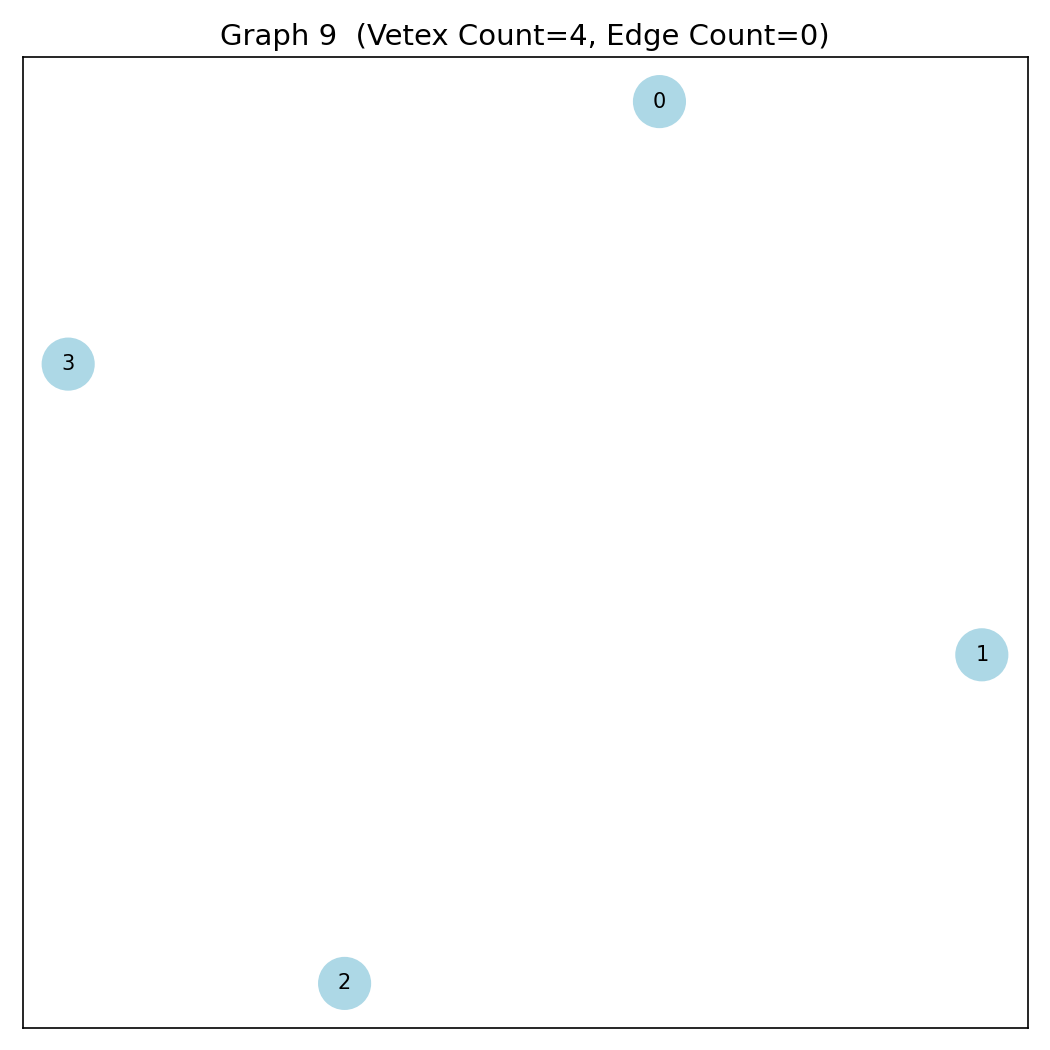
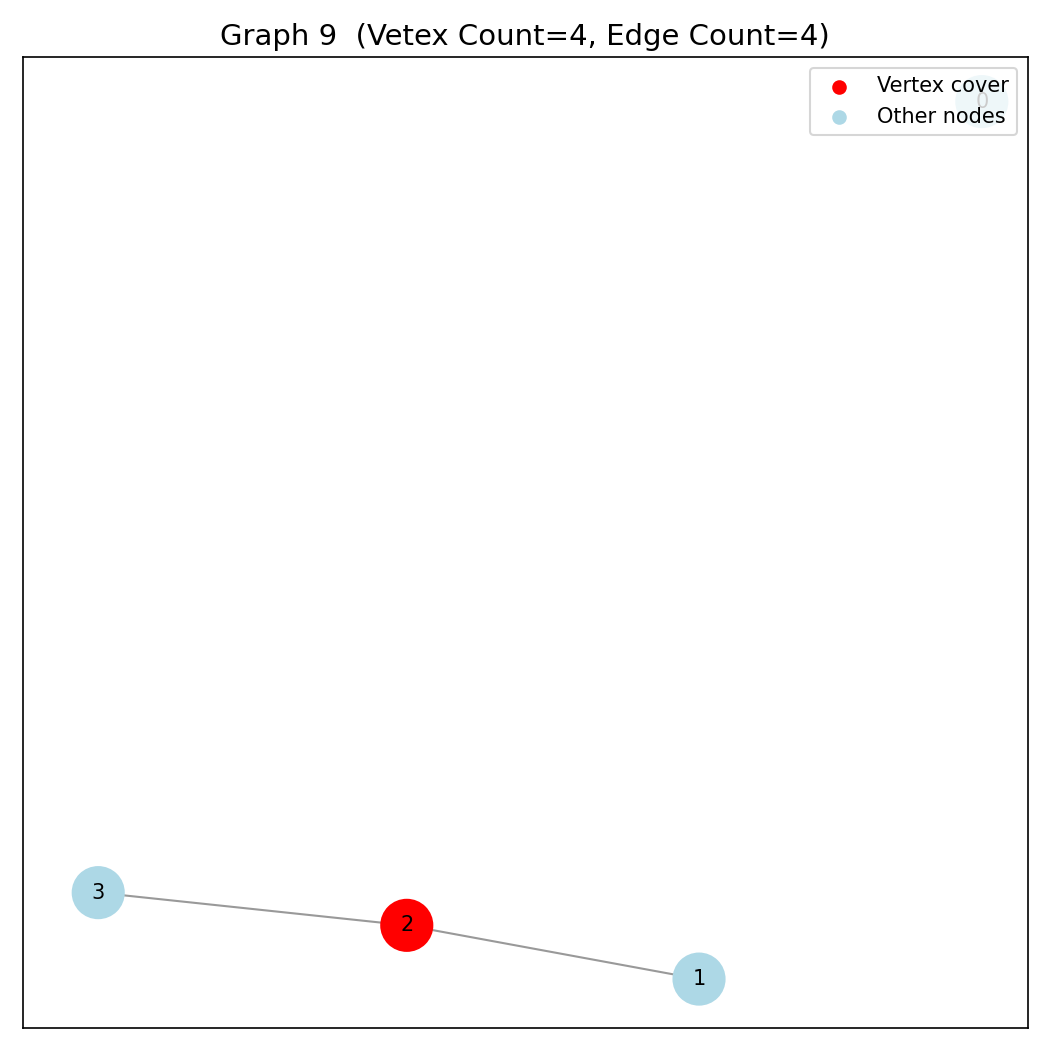
to readme

diff --git a/include/utils_chart.hpp b/include/utils_chart.hpp
@@ -1,0 +1,81 @@
+#pragma once
+
+#include <iostream>
+#include <vector>
+#include <algorithm>
+#include <memory>
+#include <unordered_set>
+#include <stack>
+#include <functional>
+
+using namespace std;
+
+namespace Utils_Chart
+{
+    // Build successor mapping succ[u] = v where u -> v in chain (using original stock ids 0..n-1)
+    // For left original id u (0..n-1), match_left_org[u] either -1 or equals (n + v)
+    static vector<vector<int>> build_chain(int stock_size, vector<int> &matching)
+    {
+        vector<int> succ(stock_size, -1);
+        vector<int> pred(stock_size, -1);
+        int match_size = 0;
+        for (int u = 0; u < stock_size; u++)
+        {
+            int v_org = matching[u];
+            if (v_org != -1)
+            {
+                int v = v_org - stock_size;
+                if (v >= 0 && v < stock_size)
+                {
+                    succ[u] = v;
+                    pred[v] = u;
+                    match_size++;
+                }
+            }
+        }
+
+        int num_chains = stock_size - match_size;
+
+        // Build chart chains by starting at nodes with no predecessor (pred == -1)
+
+        vector<vector<int>> chains;
+        vector<bool> used(stock_size, false);
+        for (int u = 0; u < stock_size; u++)
+        {
+            if (pred[u] == -1)
+            { // start of a chain
+                int curr = u;
+                vector<int> chain;
+                while (curr != -1 && !used[curr])
+                {
+                    chain.push_back(curr);
+                    used[curr] = true;
+                    curr = succ[curr];
+                }
+                if (!chain.empty())
+                {
+                    chains.push_back(move(chain));
+                }
+            }
+        }
+
+        // In case of cycles or leftover nodes (shouldn't happen in strict partial order),
+        // add any remaining unused nodes as singleton chains.
+        for (int u = 0; u < stock_size; ++u)
+        {
+            if (!used[u])
+            {
+                chains.push_back(vector<int>{u});
+            }
+        }
+
+        if (chains.size() != num_chains) {
+            return {};
+        }
+
+        else {
+            return chains;
+        }
+    }
+
+};

diff --git a/chart_minimisation/main.cpp b/chart_minimisation/main.cpp
@@ -1,4 +1,5 @@
 #include "../include/utils.hpp"
+#include "../include/utils_chart.hpp"
 #include <iostream>
 #include <vector>
 #include <algorithm>
@@ -46,53 +47,8 @@ vector<vector<int>> MinCharts(const vector<vector<int>> &stock_data)
     vector<int> match_left_org = Utils::find_matching(adj, left, right);
     // match_left_org is sized 2n (graph.size()), entries for left-original indices (0..n-1) give matched right-original id (n+j) or -1
 
-    // Build successor mapping succ[u] = v where u -> v in chain (using original stock ids 0..n-1)
-    // For left original id u (0..n-1), match_left_org[u] either -1 or equals (n + v)
-    vector<int> succ(n, -1);
-    vector<int> pred(n, -1); // reverse link to find starts
-    int matching_size = 0;
-    for (int u = 0; u < n; ++u) {
-        int v_orig = match_left_org[u]; // this should be either -1 or n+v
-        if (v_orig != -1) {
-            int v = v_orig - n;
-            if (v >= 0 && v < n) {
-                succ[u] = v;
-                pred[v] = u;
-                ++matching_size;
-            }
-        }
-    }
-
-    // Number of chains = n - matching_size
-
-    // Build chains by starting at nodes with no predecessor (pred == -1)
-    vector<vector<int>> chains;
-    vector<char> used(n, 0);
-    for (int u = 0; u < n; ++u) {
-        if (pred[u] == -1) { // start of a chain
-            int cur = u;
-            vector<int> chain;
-            while (cur != -1 && !used[cur]) {
-                chain.push_back(cur);
-                used[cur] = 1;
-                cur = succ[cur];
-            }
-            if (!chain.empty())
-                chains.push_back(move(chain));
-        }
-    }
-
-    // In case of cycles or leftover nodes (shouldn't happen in strict partial order),
-    // add any remaining unused nodes as singleton chains.
-    for (int u = 0; u < n; ++u) {
-        if (!used[u]) {
-            chains.push_back(vector<int>{u});
-        }
-    }
-
-    // Debug print (optional): Uncomment for verification
-    // cout << "n=" << n << " matching_size=" << matching_size << " min_chains=" << (n - matching_size) << "\n";
-
+    // Build chains 
+    vector<vector<int>> chains = Utils_Chart::build_chain(n, match_left_org);
     return chains;
 }
 
